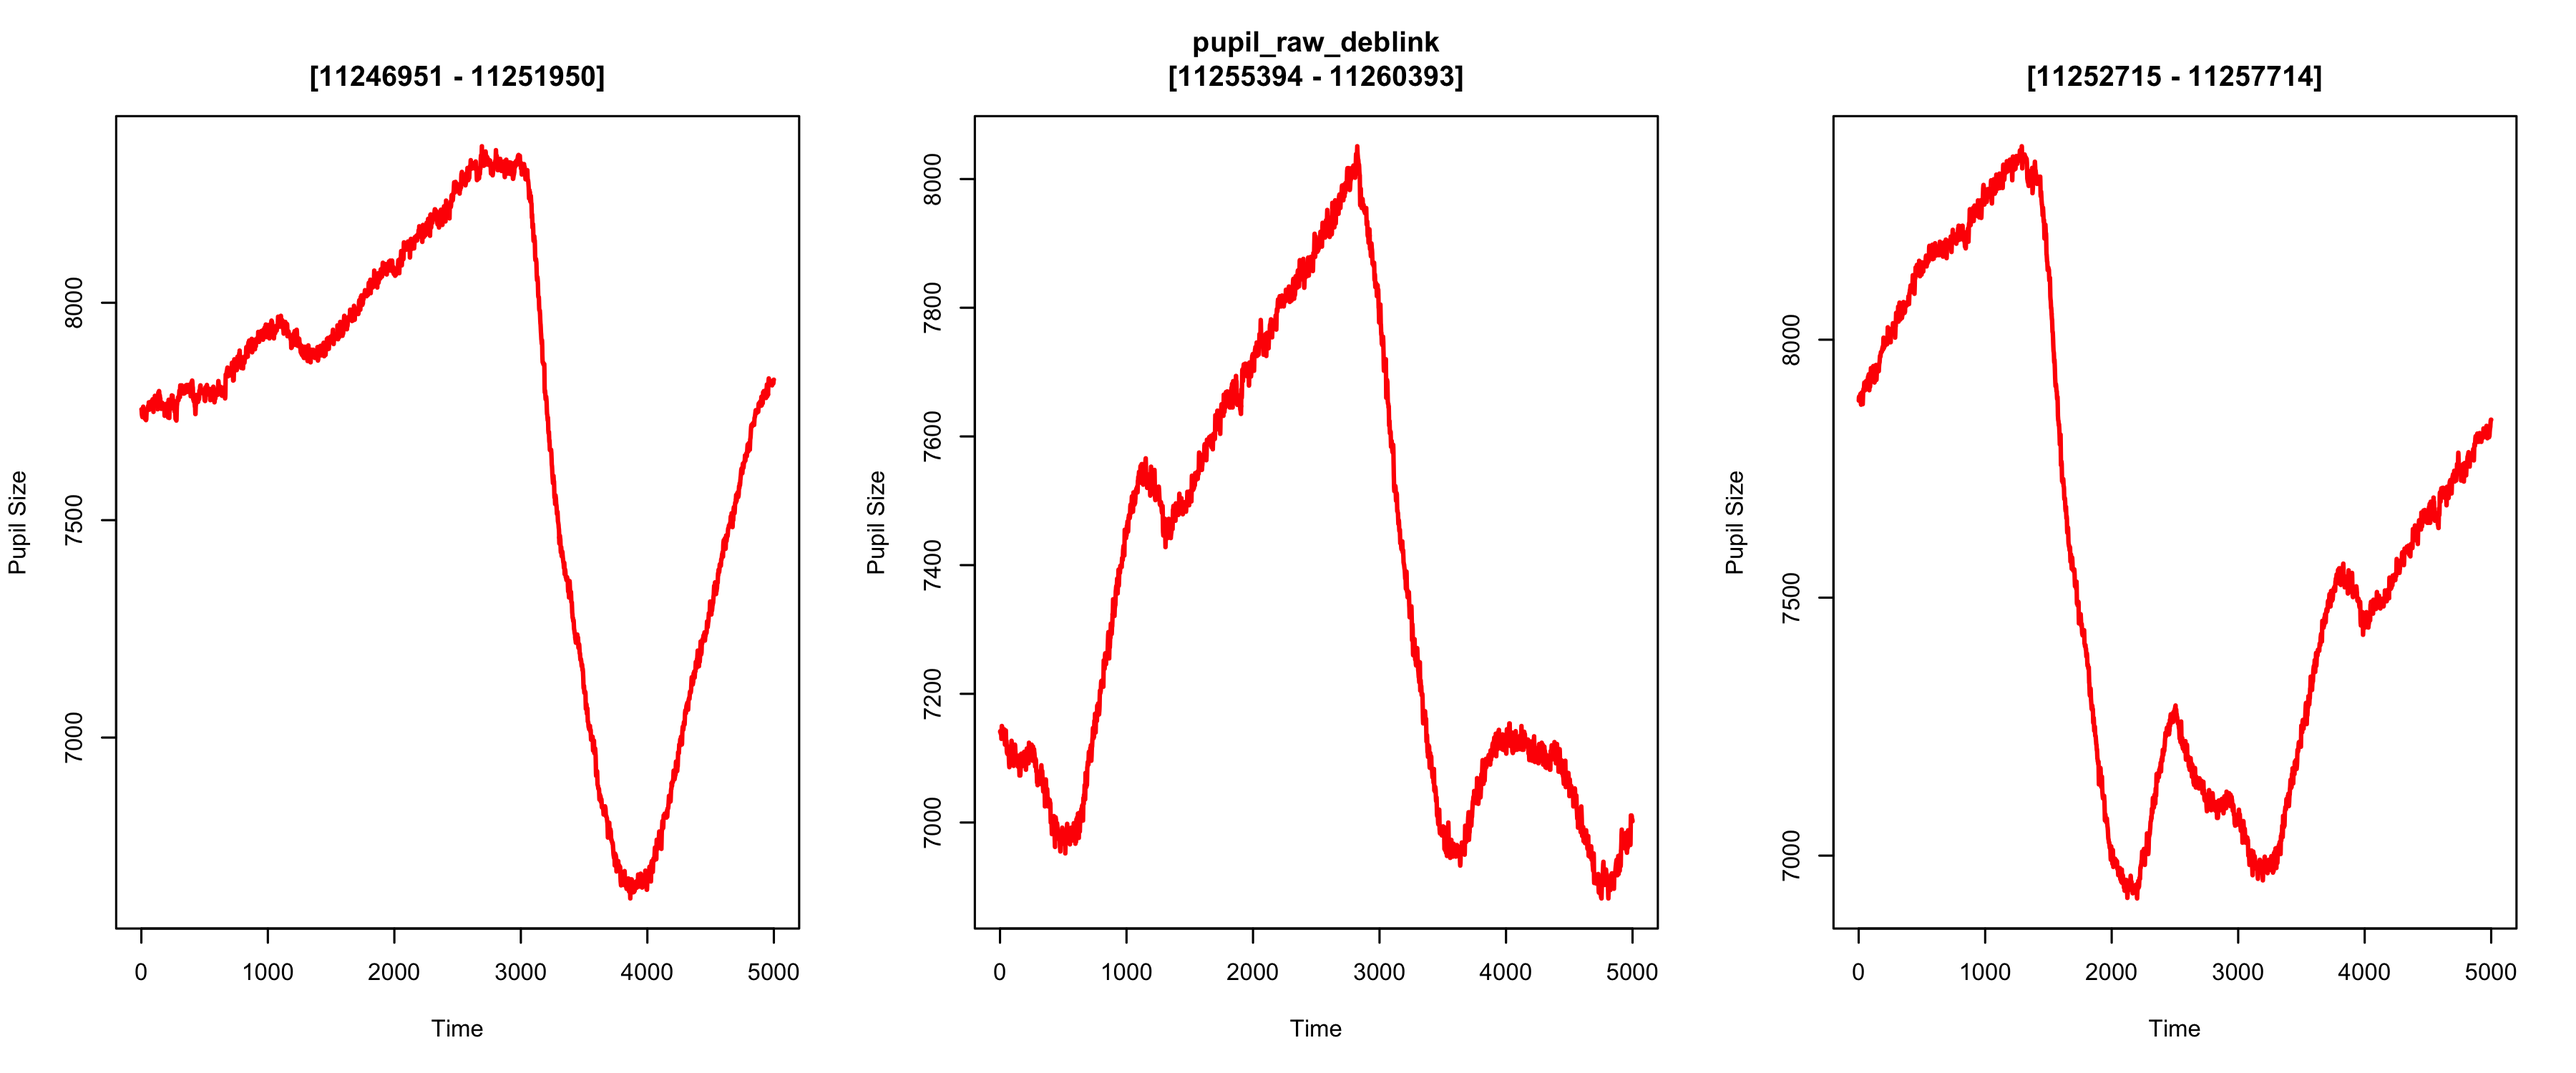
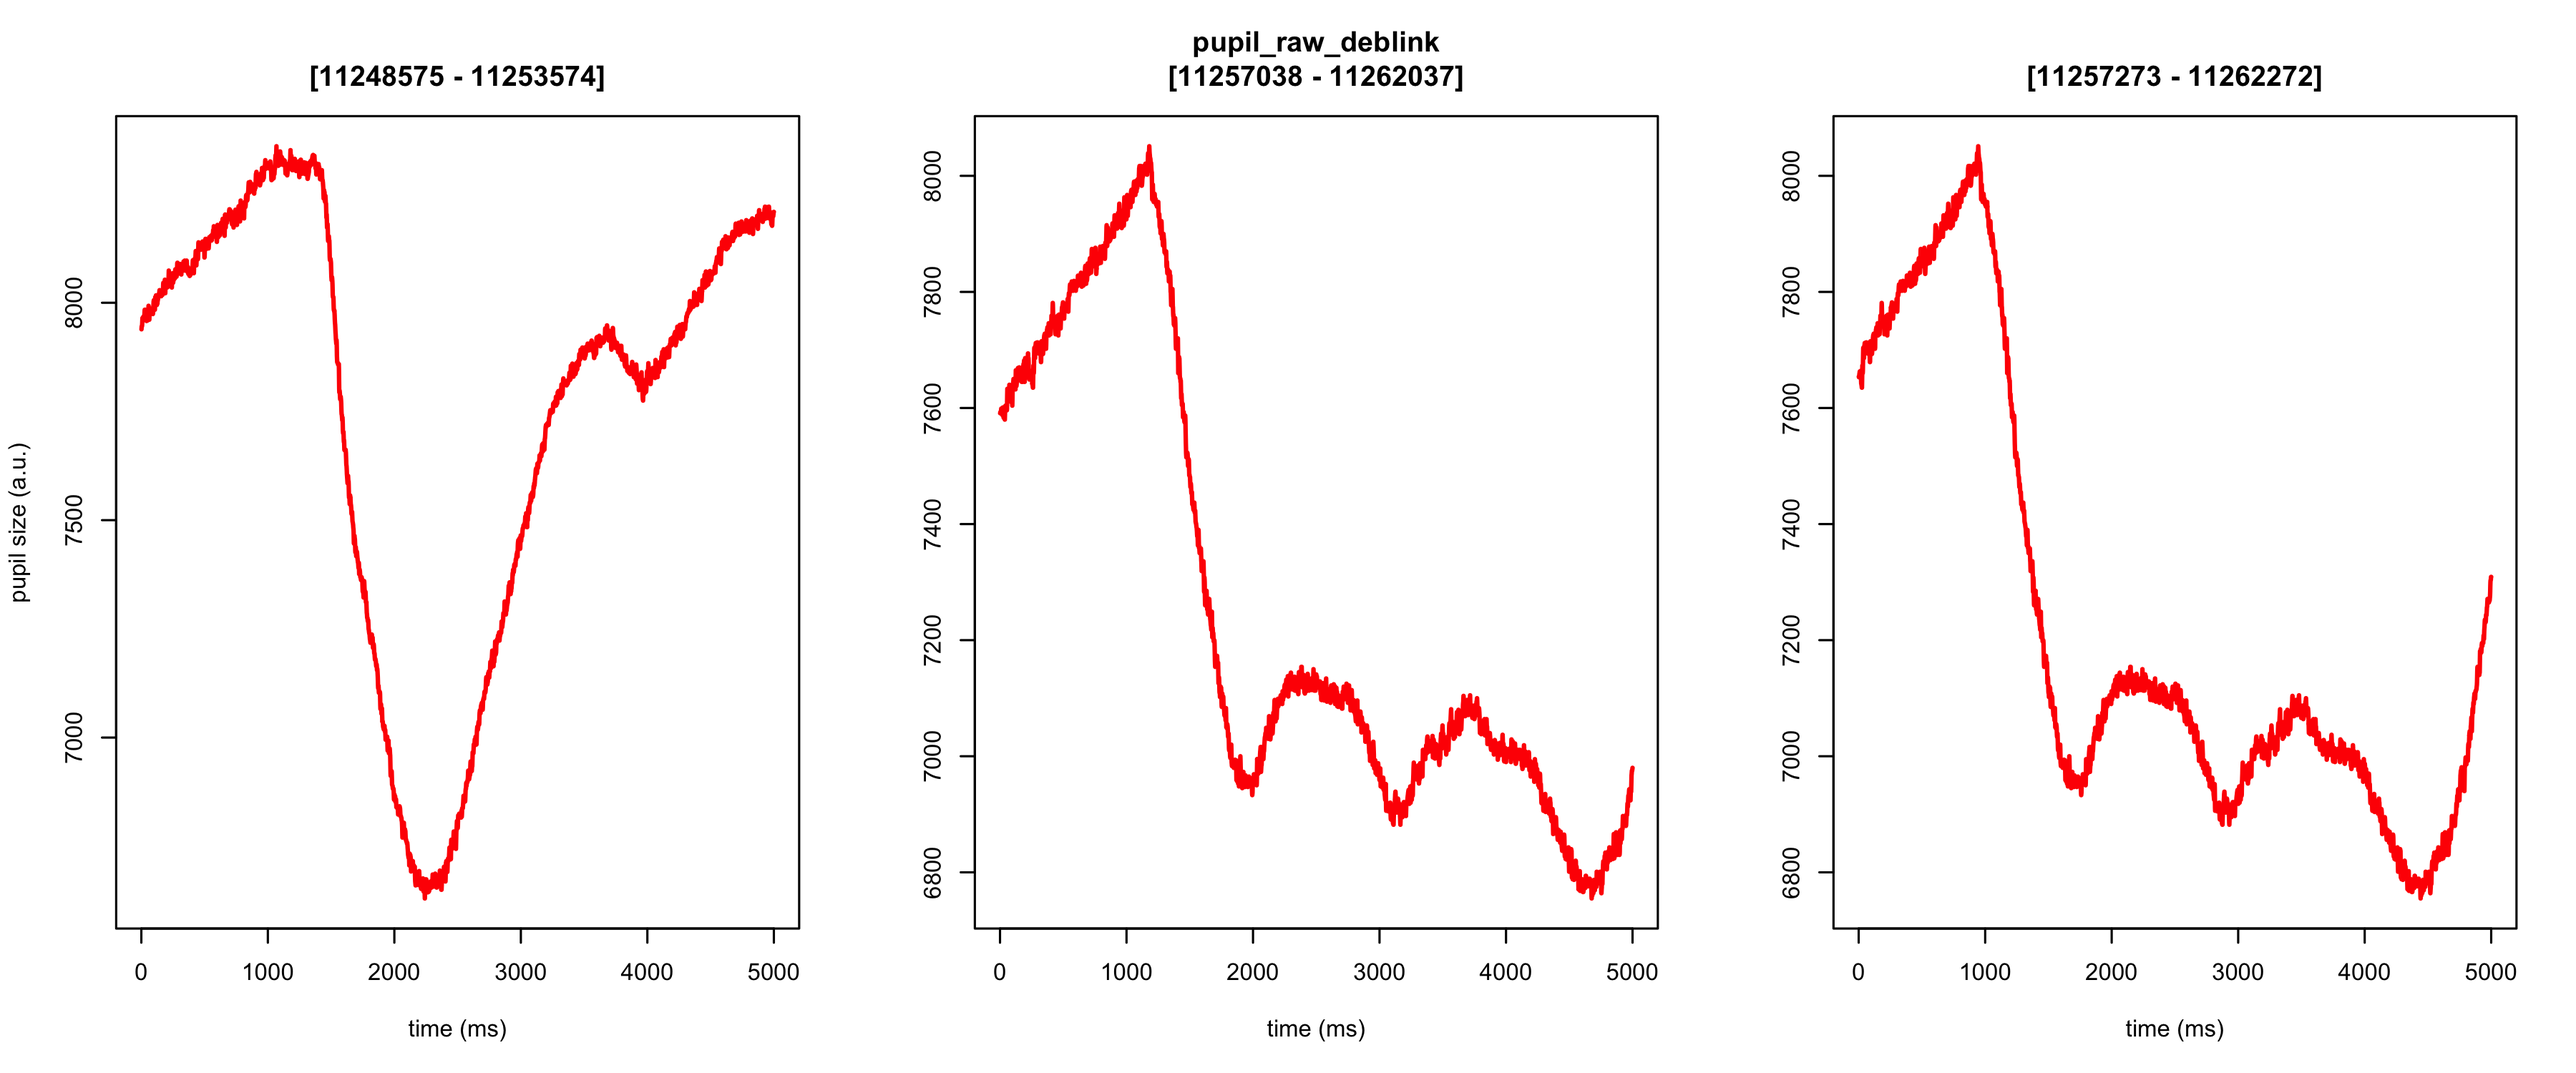
chore: re-render README taking into account new `glassbox()` and `plot()` settings

diff --git a/README.md b/README.md
@@ -51,15 +51,15 @@ library(eyeris)
 
 demo_data <- system.file("extdata", "assocret.asc", package = "eyeris")
 
-eyeris_preproc <- glassbox(demo_data, lpfilt = list(plot_freqz = TRUE))
-#> → Running load ...
-#> → Running deblink ...
-#> → Running detransient ...
-#> → Running interpolate ...
-#> ℹ Skipping interpolate : No NAs detected in pupil data for interpolation.
-#> → Running lpfilt ...
-#> → Running detrend ...
-#> → Running zscore ...
+eyeris_preproc <- glassbox(demo_data, detrend_data = F, lpfilt = list(plot_freqz = T))
+#> ✔ [  OK  ] - Running eyeris::load_asc()
+#> ✔ [  OK  ] - Running eyeris::deblink()
+#> ✔ [  OK  ] - Running eyeris::detransient()
+#> ✔ [  OK  ] - Running eyeris::interpolate()
+#> ℹ [ INFO ] - Skipping eyeris::interpolate(): No NAs detected in pupil data for interpolation.
+#> ✔ [  OK  ] - Running eyeris::lpfilt()
+#> ✔ [  OK  ] - Skipping eyeris::detrend()
+#> ✔ [  OK  ] - Running eyeris::zscore()
 ```
 
 <img src="man/figures/README-glassbox-example-1.png" width="100%" />
@@ -70,12 +70,12 @@ eyeris_preproc <- glassbox(demo_data, lpfilt = list(plot_freqz = TRUE))
 plot(eyeris_preproc)
 ```
 
-<img src="man/figures/README-glassbox-plot-1.png" width="100%" /><img src="man/figures/README-glassbox-plot-2.png" width="100%" /><img src="man/figures/README-glassbox-plot-3.png" width="100%" /><img src="man/figures/README-glassbox-plot-4.png" width="100%" /><img src="man/figures/README-glassbox-plot-5.png" width="100%" /><img src="man/figures/README-glassbox-plot-6.png" width="100%" />
+<img src="man/figures/README-glassbox-plot-1.png" width="100%" /><img src="man/figures/README-glassbox-plot-2.png" width="100%" /><img src="man/figures/README-glassbox-plot-3.png" width="100%" /><img src="man/figures/README-glassbox-plot-4.png" width="100%" /><img src="man/figures/README-glassbox-plot-5.png" width="100%" />
 
 ### final pre-post correction of pupillary signal (raw -\> preprocessed)
 
 ``` r
-plot(eyeris_preproc, steps = c(1, 6), time_range = c(0, 100000))
+plot(eyeris_preproc, steps = c(1, 5), preview_window = c(0, 100000))
 ```
 
 <img src="man/figures/README-timeseries-plot-1.png" width="100%" /><img src="man/figures/README-timeseries-plot-2.png" width="100%" />
